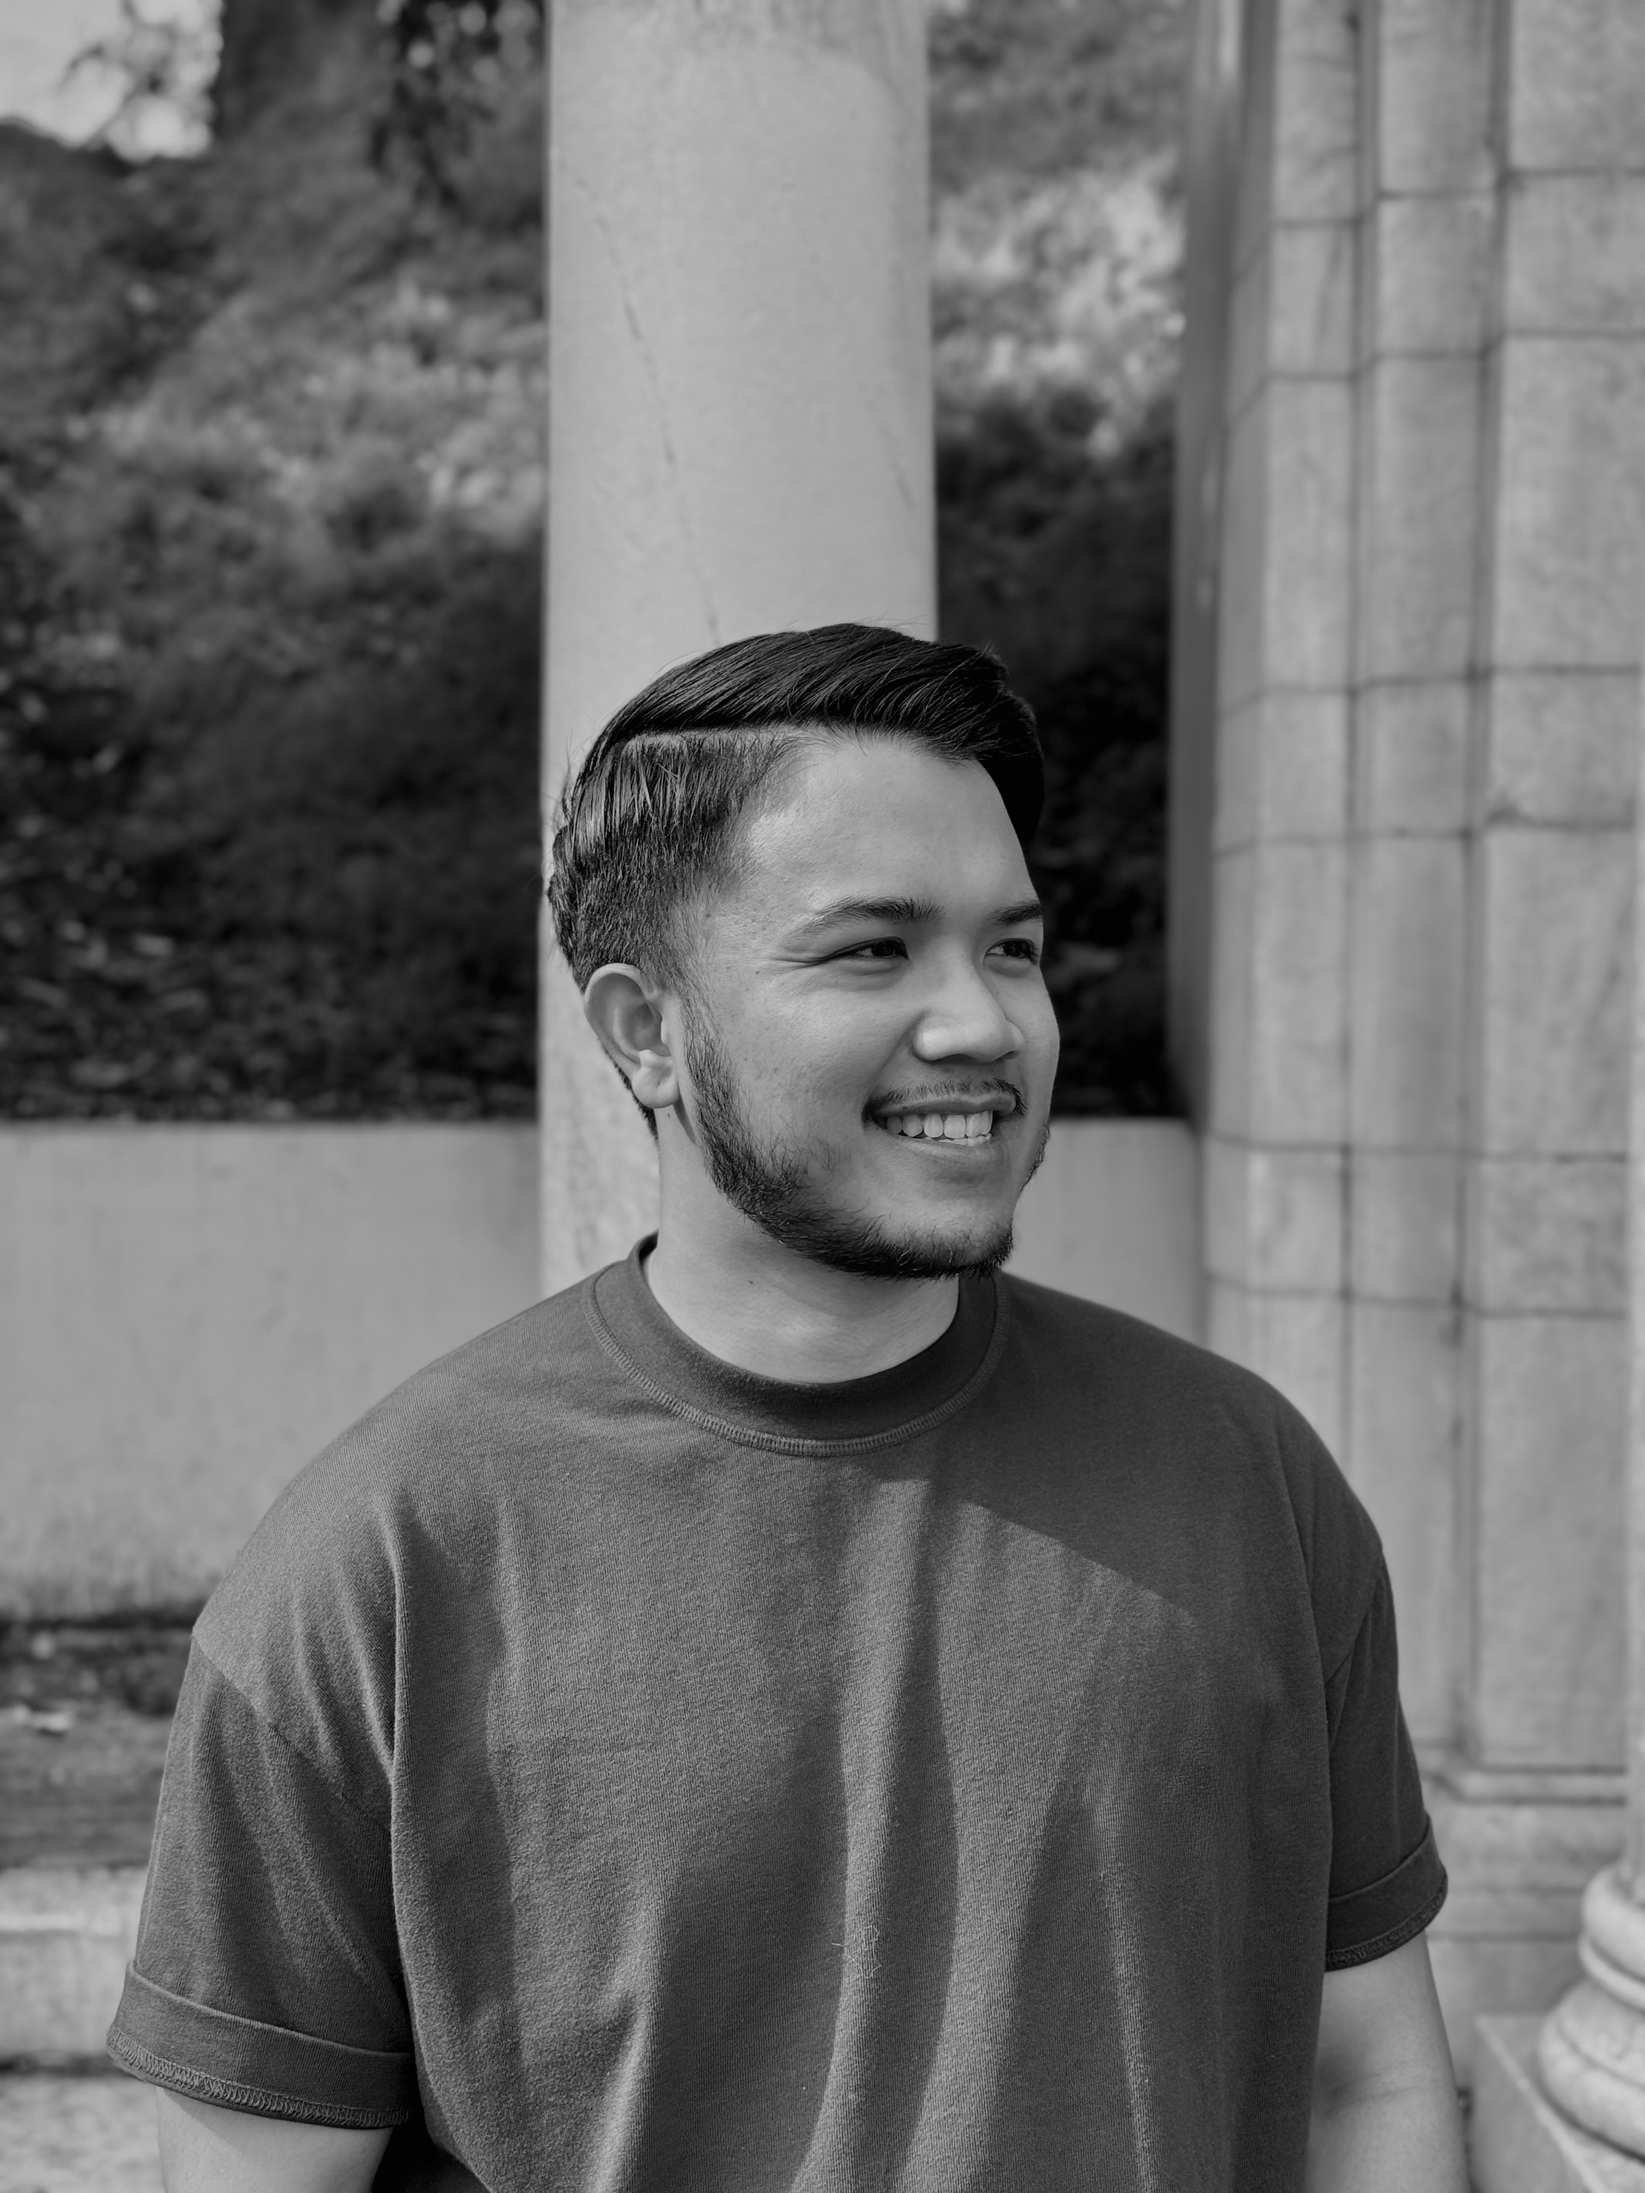
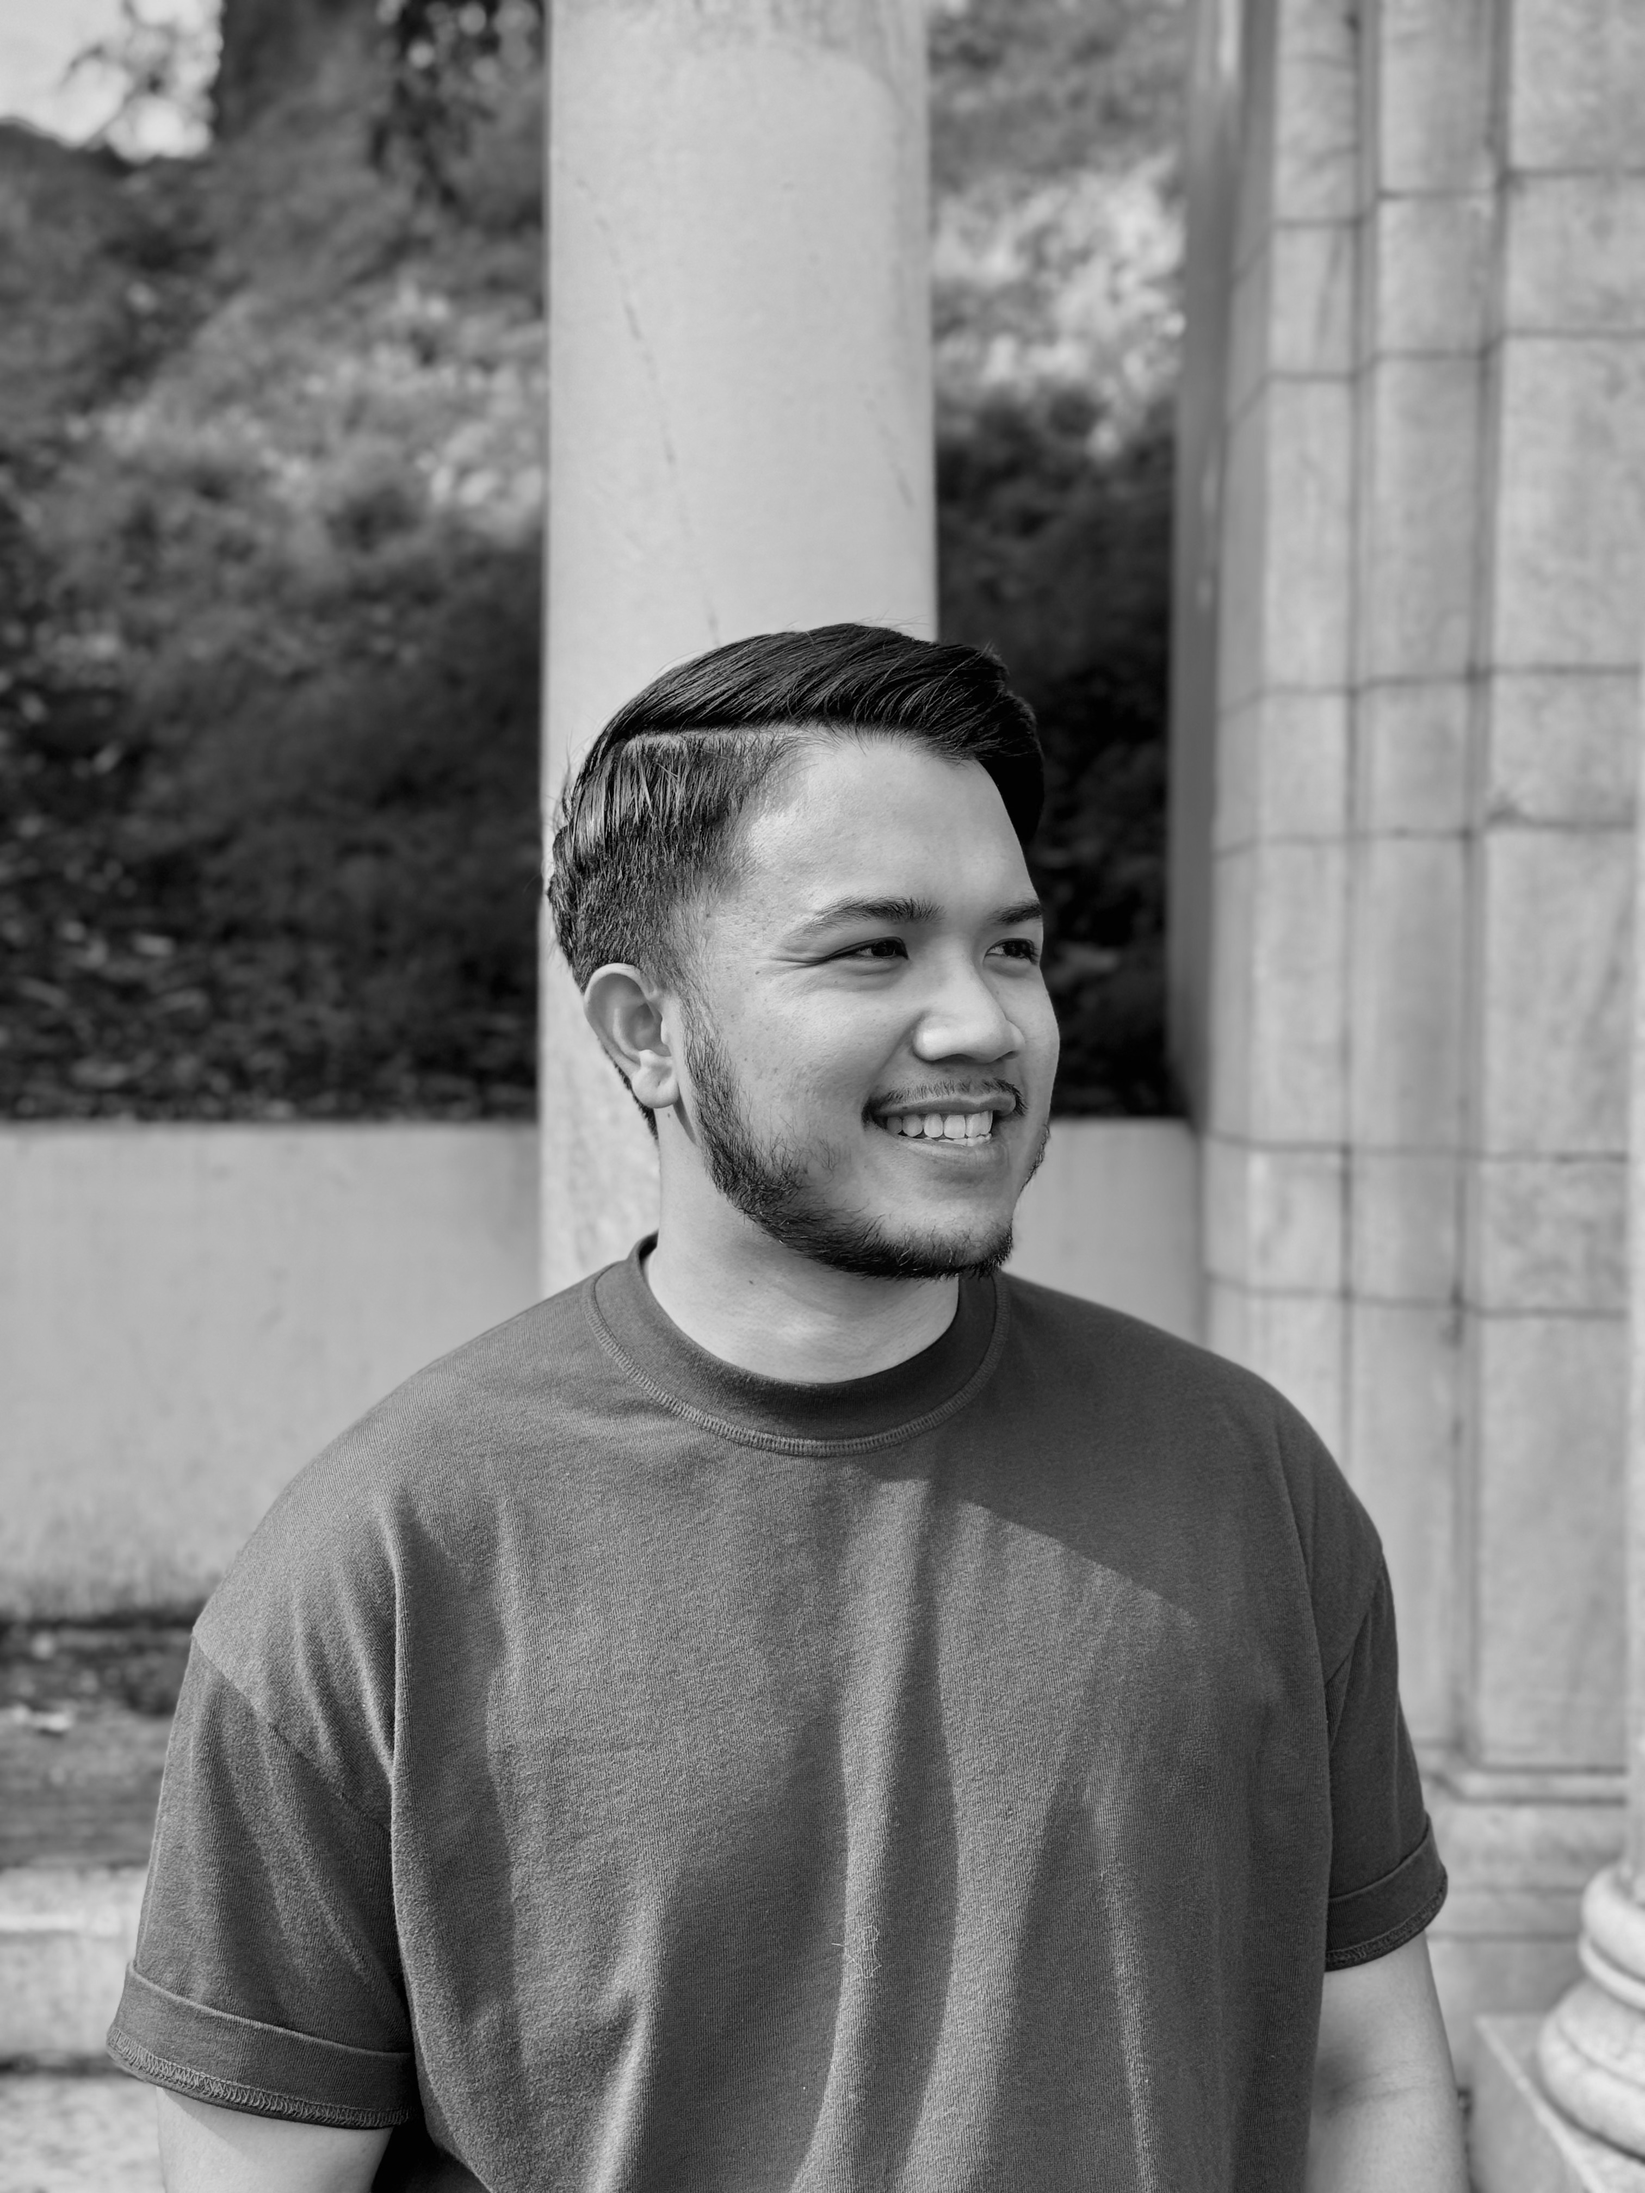
Update profile photo

diff --git a/public/index.html b/public/index.html
@@ -352,7 +352,7 @@
                 width="144"
                 height="144"
                 alt="Kevin Dayno"
-                src="/kev-headshot-bw_hu_d28708455eafd99b.jpeg">
+                src="/kev-headshot-bw_hu_f4b1c43000b11910.jpeg">
             
           
           <h1 class="mb-2 text-4xl font-extrabold text-neutral-800 dark:text-neutral-200">
